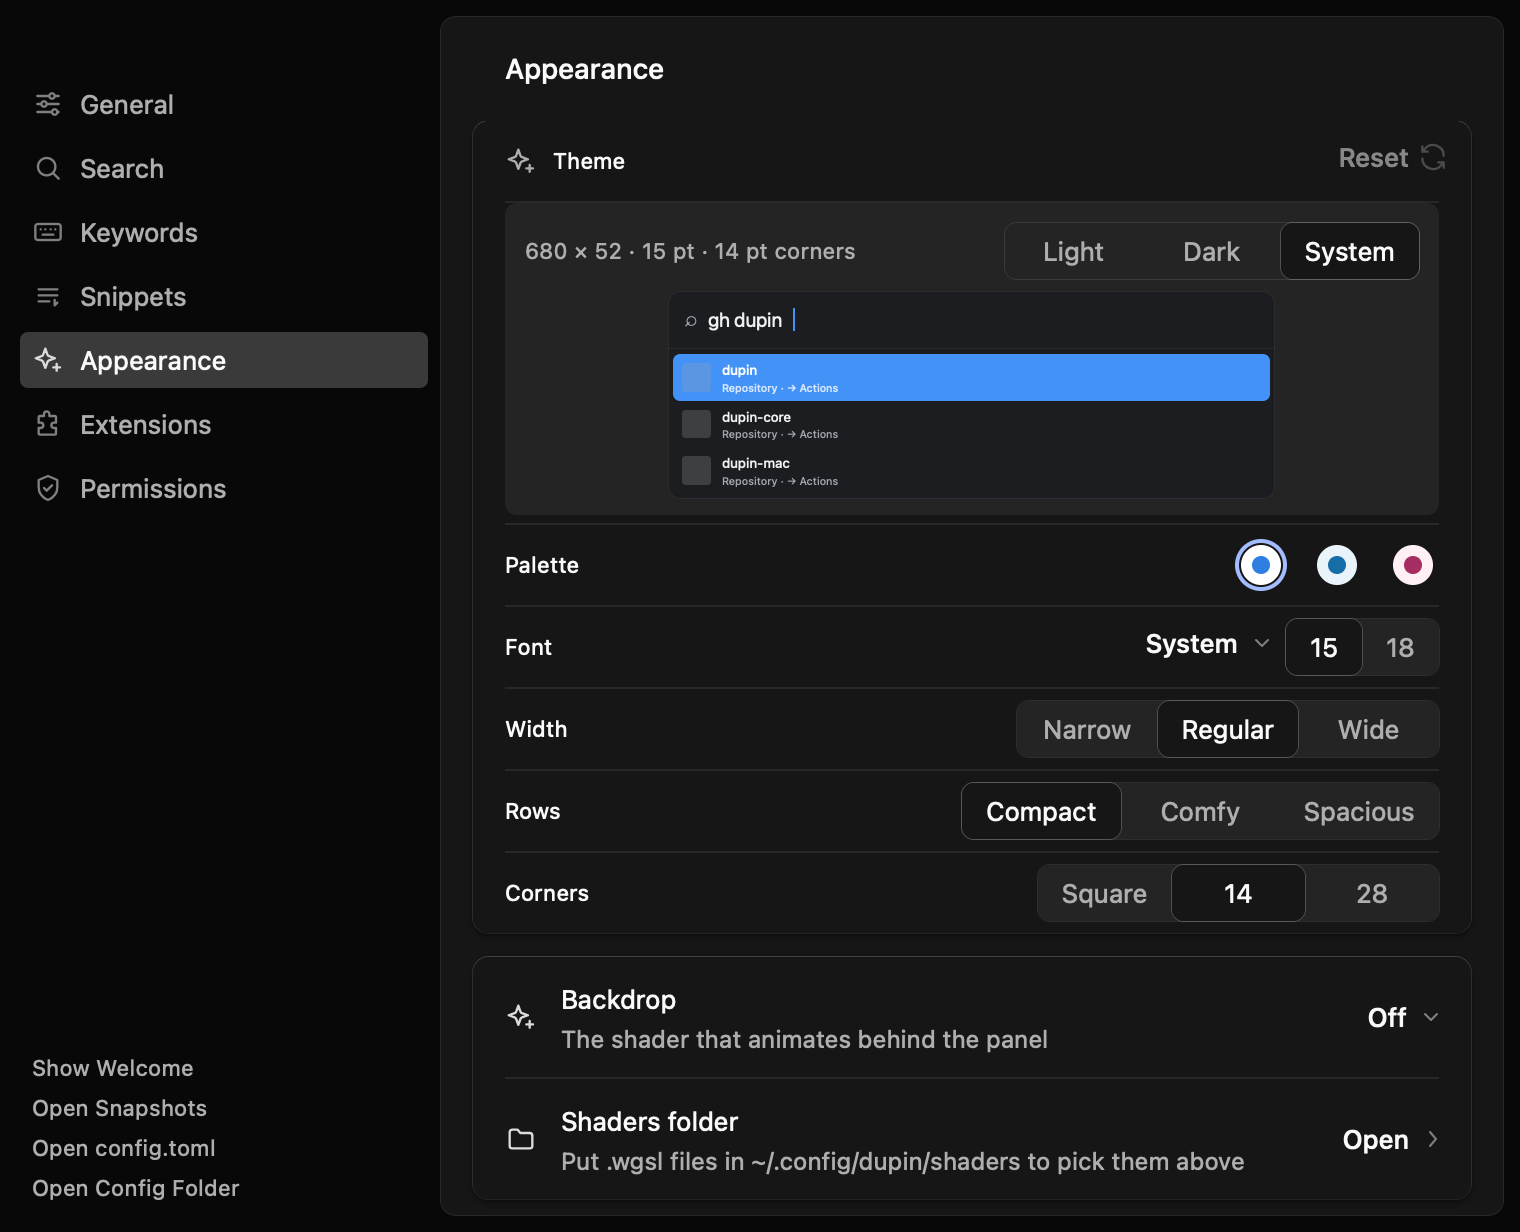
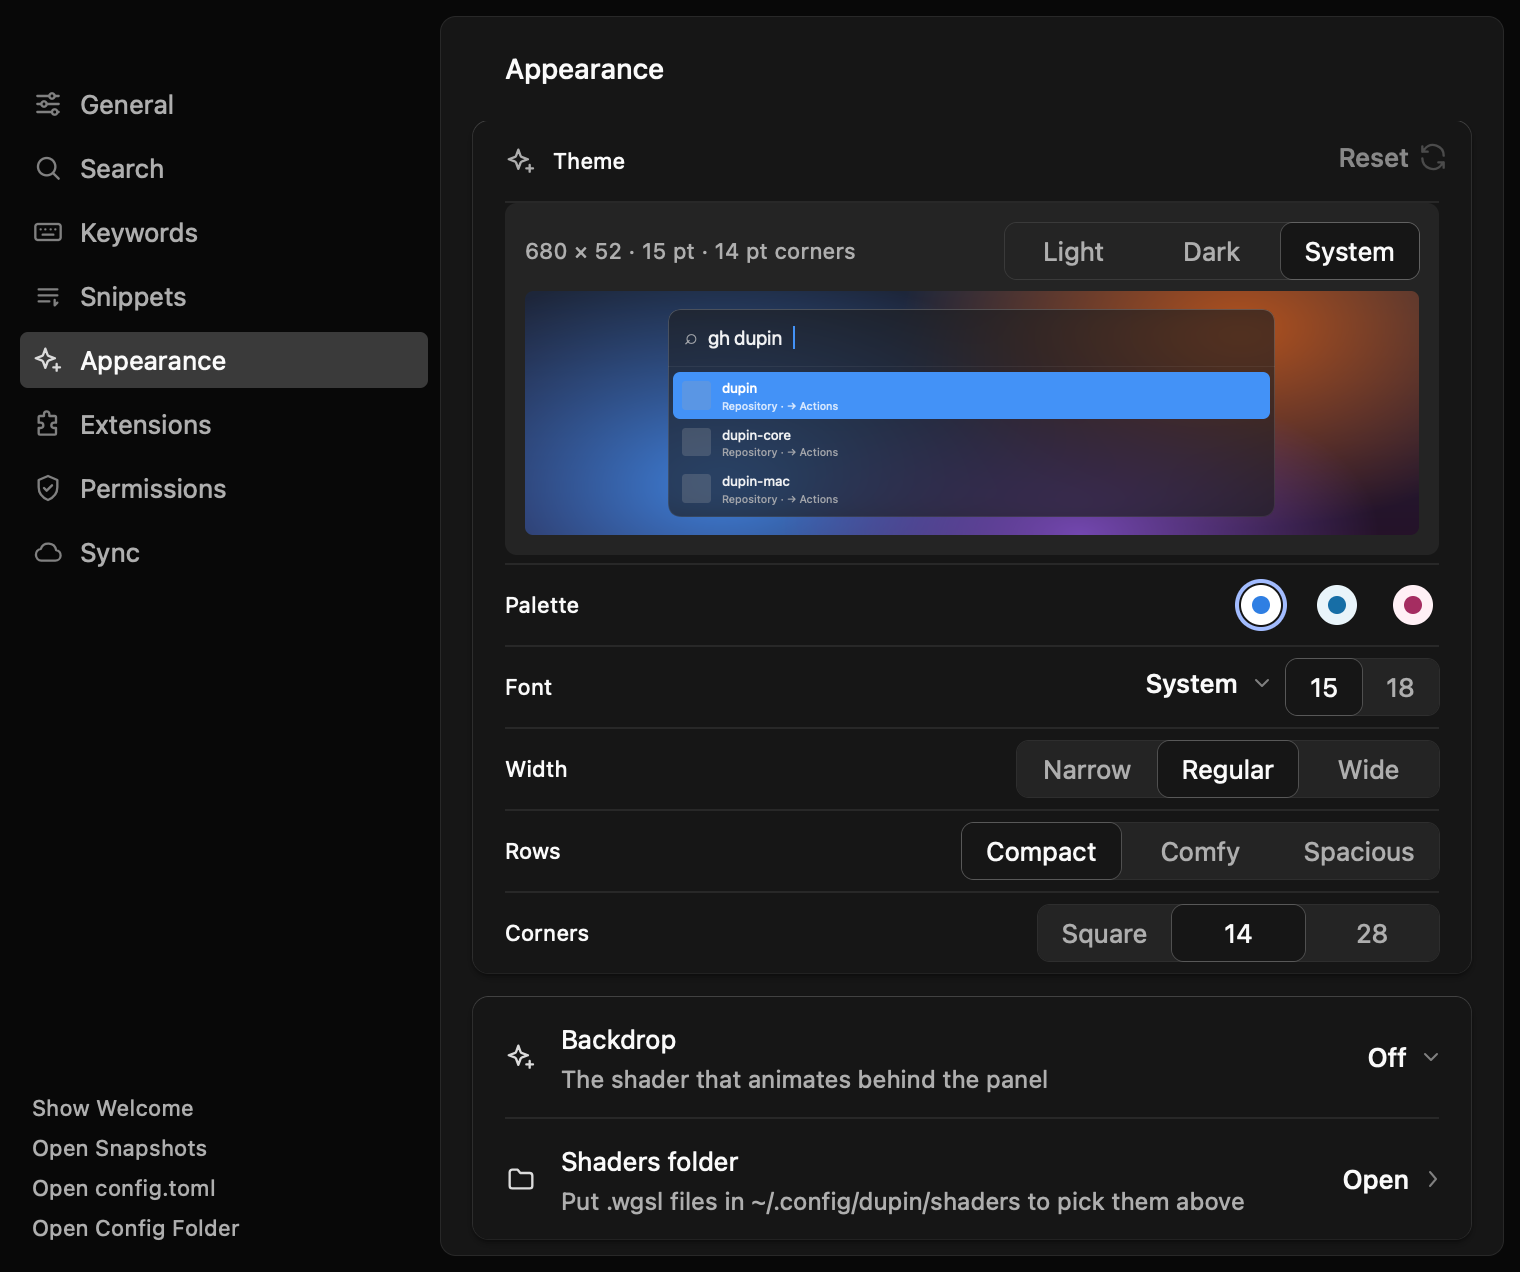
fix(settings): draw the theme preview as glass over a wallpaper
The Theme card's miniature filled the panel with the theme's opaque card
colour on the well's flat grey, so it read as a dark slab. The real panel is
Liquid Glass: the native glass under a translucent frost of that colour,
showing whatever is behind it.

Native glass can't stand in here: Rune's system material needs a transparent
window and blurs what is behind the window, and Settings is opaque. Rune's
in-window backdrop blur draws the same way live and headless, so the miniature
now blurs a small still wallpaper (two soft gradients plus the palette's
accent) and tints it with the card colour at the strength the glass and frost
give together, with a top-lit rim and a soft shadow. The wallpaper is static,
so Settings stays idle; the backdrop shader isn't run there, since the
Settings window has no backdrop compositor and a running shader would redraw
every frame.

The well grows by 20 pt so the wallpaper shows above and below the panel,
and the Settings → Appearance images and docs describe the new preview.

diff --git a/crates/dupin/src/view/theme.rs b/crates/dupin/src/view/theme.rs
@@ -77,18 +77,33 @@ fn preview_geometry(theme: &dupin_core::config::Theme, avail_w: f32) -> (f32, f3
     (w, h, scale, n)
 }
 
+/// How far the miniature's glass blurs the desk behind it, in the panel's own points.
+const GLASS_BLUR: f32 = 24.0;
+/// How much of the card colour covers the miniature's glass: the system glass's own frost
+/// plus the panel's `FROST` over it.
+const GLASS_TINT: f32 = 0.6;
+
+/// The miniature panel on a small desk of colour, so its glass has something to show through it.
+/// The desk spans the width it is given; the caller sizes its height, rounds and clips it.
 pub fn theme_preview(theme: &dupin_core::config::Theme, dark: bool, avail_w: f32) -> El {
     let t = ResolvedTheme::new(theme, dark);
     let (w, h, scale, n) = preview_geometry(theme, avail_w);
     let radius = theme.corner_radius as f32;
+    let ink = if dark { Color::WHITE } else { Color::BLACK };
     let panel = col()
         .w(w)
         .h(h)
         .radius(radius)
         .continuous_corners()
         .clip_rounded(radius)
-        .fill(t.card)
-        .border(1.0, t.text.alpha(0.08))
+        .backdrop_blur(GLASS_BLUR)
+        .fill(t.card.alpha(GLASS_TINT))
+        .border_gradient(
+            1.0,
+            Color::WHITE.alpha(if dark { 0.22 } else { 0.7 }),
+            ink.alpha(0.08),
+        )
+        .shadow(10.0, 32.0, Color::BLACK.alpha(if dark { 0.35 } else { 0.16 }))
         .child(
             row()
                 .w_full()
@@ -131,13 +146,42 @@ pub fn theme_preview(theme: &dupin_core::config::Theme, dark: bool, avail_w: f32
                 },
             )
         })));
-    el().size((w * scale).round(), (h * scale).round())
-        .a11y_hidden()
+    let miniature = el()
+        .size((w * scale).round(), (h * scale).round())
         .child(panel.scale(scale).pin(
             Some((w * scale - w) / 2.0),
             Some((h * scale - h) / 2.0),
             None,
             None,
+        ));
+    desk(&t, dark).a11y_hidden().child(miniature)
+}
+
+/// A soft wallpaper of the theme's accent and two fixed hues, drawn once: Settings has no
+/// backdrop compositor, and a still desk keeps the window idle while it is open.
+fn desk(t: &ResolvedTheme, dark: bool) -> El {
+    let (l, top, bottom) = if dark {
+        (
+            0.55,
+            rune::oklch(0.27, 0.04, 265.0),
+            rune::oklch(0.22, 0.05, 320.0),
+        )
+    } else {
+        (0.8, rune::oklch(0.94, 0.03, 250.0), rune::oklch(0.9, 0.04, 330.0))
+    };
+    let blob = |center: [f32; 2], radius: [f32; 2], color: Color| {
+        el().pin(Some(0.0), Some(0.0), Some(0.0), Some(0.0))
+            .radial_gradient(center, radius, [(0.0, color), (1.0, color.alpha(0.0))])
+    };
+    el().w_full()
+        .center()
+        .gradient(top, bottom)
+        .child(blob([0.22, 0.8], [190.0, 110.0], t.accent.alpha(0.85)))
+        .child(blob([0.8, 0.15], [170.0, 100.0], rune::oklch(l, 0.14, 45.0)))
+        .child(blob(
+            [0.62, 1.0],
+            [150.0, 80.0],
+            rune::oklch(l - 0.05, 0.16, 300.0),
         ))
 }
 

diff --git a/crates/dupin/src/prefs/appearance.rs b/crates/dupin/src/prefs/appearance.rs
@@ -386,7 +386,7 @@ fn theme_card(s: &Prefs, k: &Kit, dark: bool) -> El {
     .key("preview-appearance");
     let well = col()
         .w_full()
-        .h(156.0)
+        .h(176.0)
         .padding(10.0)
         .gap(6.0)
         .radius(k.radius.md)
@@ -407,11 +407,12 @@ fn theme_card(s: &Prefs, k: &Kit, dark: bool) -> El {
                 )
                 .child(toggle),
         )
-        .child(el().w_full().grow(1.0).center().child(crate::view::theme_preview(
-            t,
-            s.preview_dark.unwrap_or(dark),
-            414.0,
-        )));
+        .child(
+            crate::view::theme_preview(t, s.preview_dark.unwrap_or(dark), 414.0)
+                .grow(1.0)
+                .radius(k.radius.sm)
+                .clip_rounded(k.radius.sm),
+        );
     let mut reset = value_button(k, "reset-theme", "Reset", &icons::REFRESH);
     if locked || *t == Theme::default() {
         reset = reset.disabled(true).layer_opacity(0.5);

diff --git a/docs/features/appearance.md b/docs/features/appearance.md
@@ -63,8 +63,9 @@ Geometry uses integer points: width 400–1200, row height 52–100, radius 0–
 font size 12–20. Rows must be at least `3 * font_size + 7` points tall. Invalid
 reloads keep the last good configuration and show an error.
 
-Settings → Appearance shows light and dark previews at the configured width (scroll
-to see wide panels), with a menu for colors, font and geometry presets. Edit TOML
+Settings → Appearance shows a scaled-down preview of the panel in light, dark or the
+system appearance, as glass over a still wallpaper tinted by the palette's accent (the
+backdrop shader doesn't run there), with controls for colors, font and geometry presets. Edit TOML
 for precise values. Changes use the usual settings save/conflict handling; the theme
 section is one setting for conflict detection. The menu is locked only when a read-only
 `config.toml` sets `[theme]`; otherwise edits are saved in Dupin's encrypted storage.
